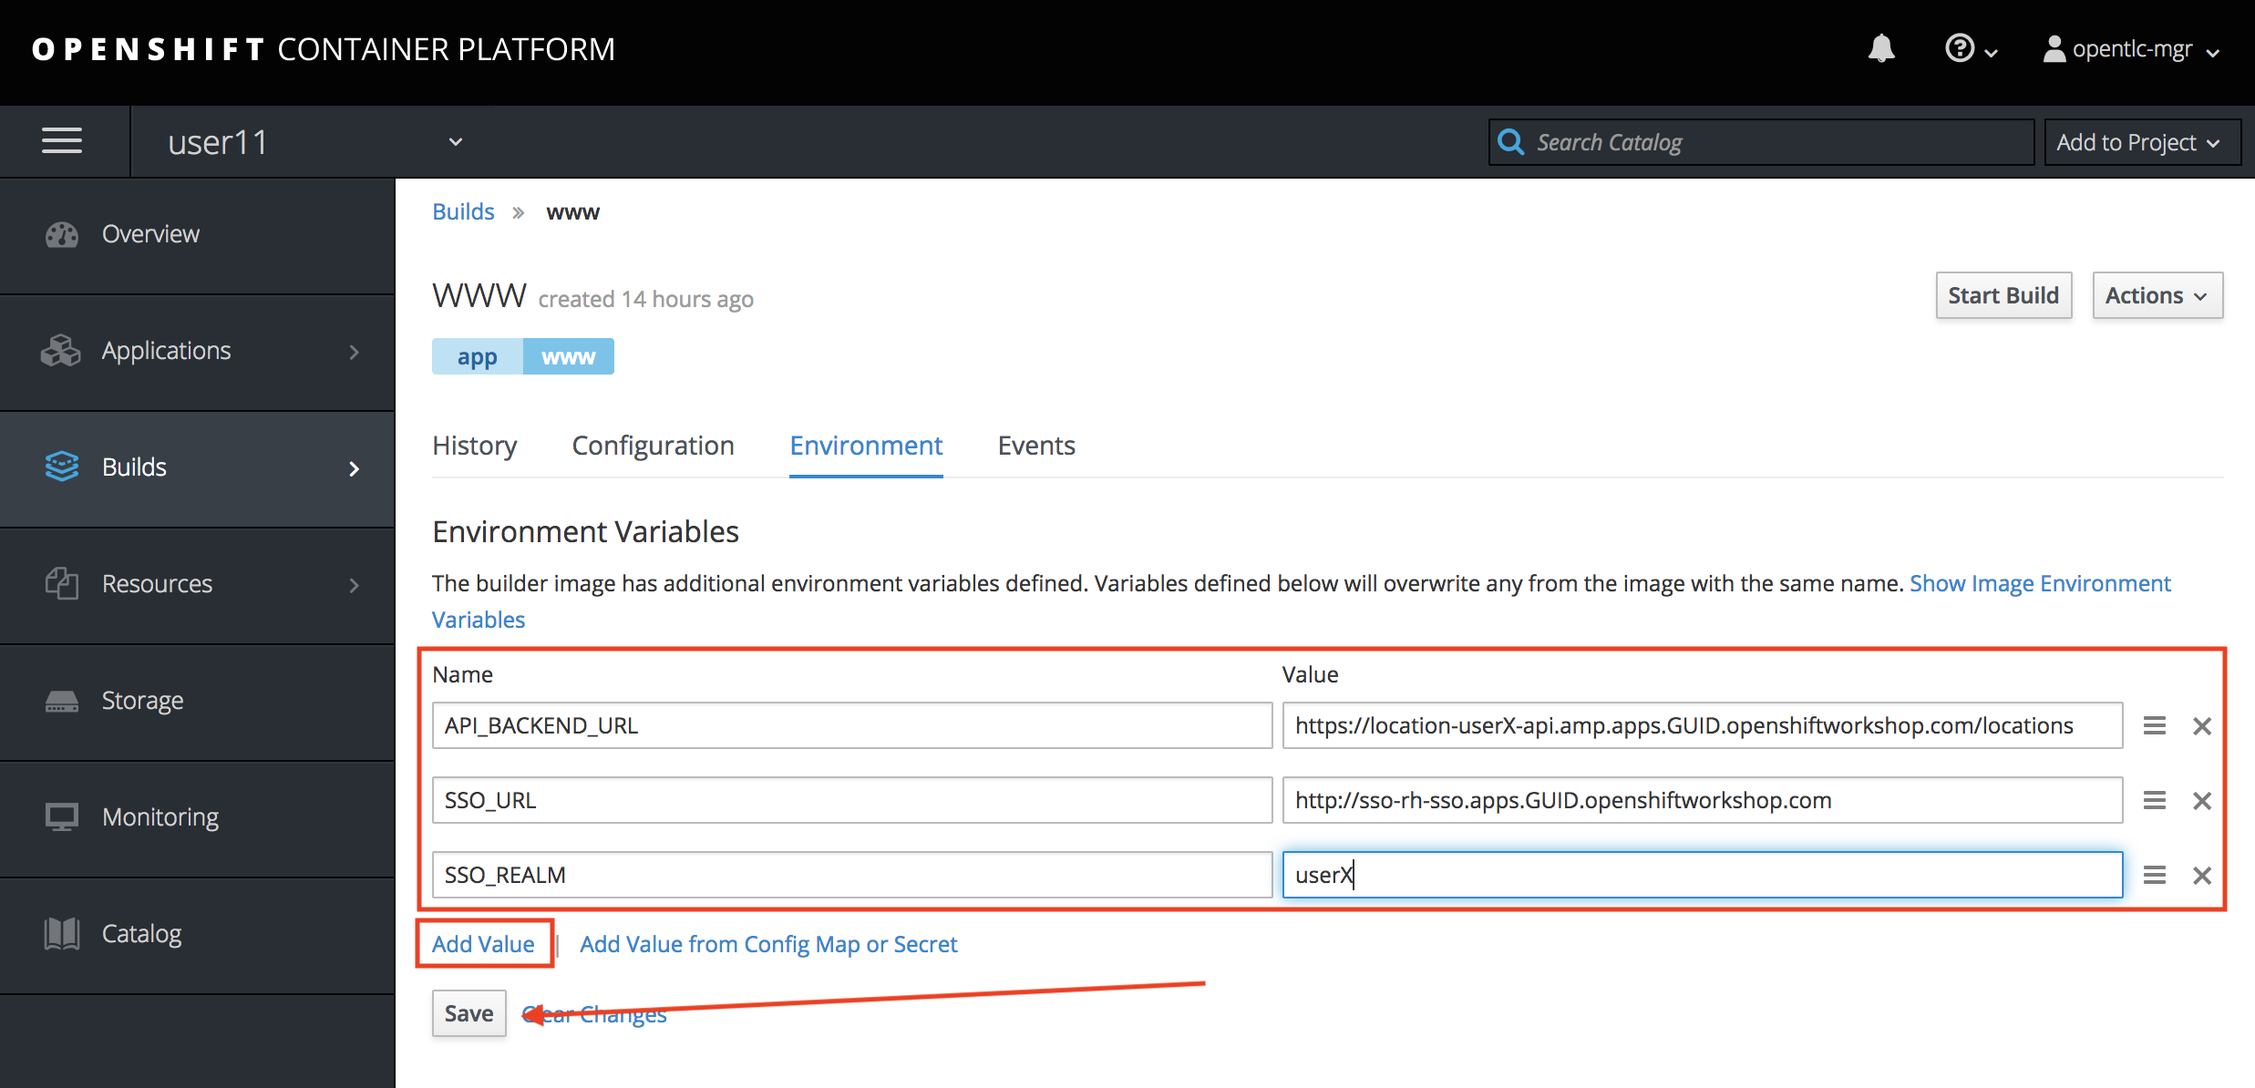
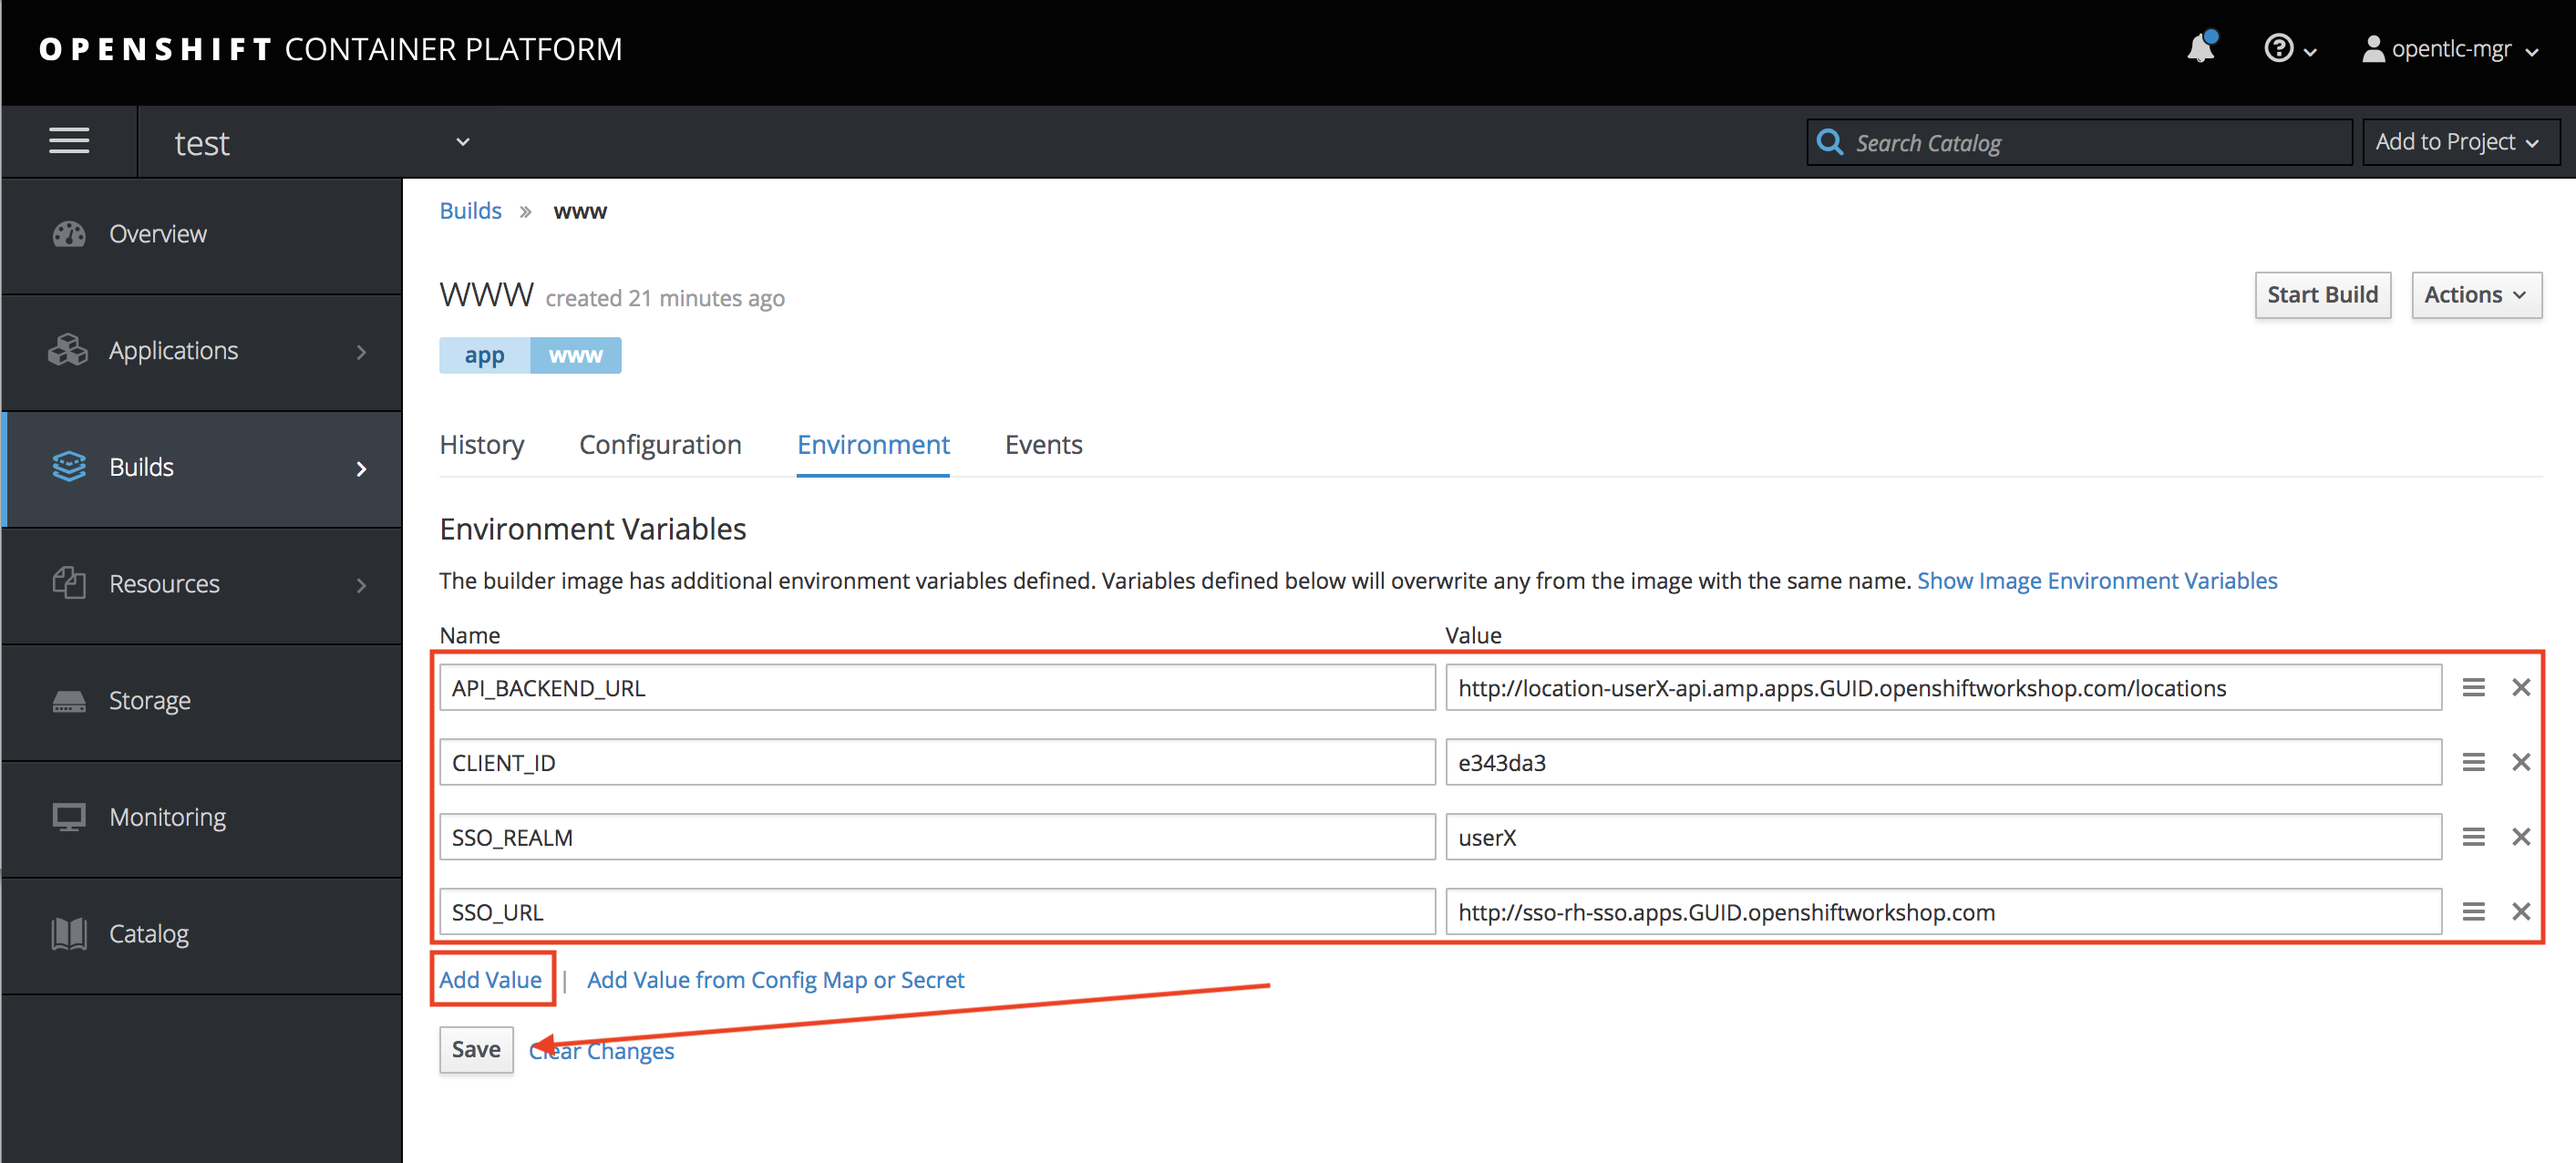
externalized CLIENT_ID instructions

diff --git a/docs/labs/lab06/README.md b/docs/labs/lab06/README.md
@@ -271,8 +271,6 @@ In this step, we will edit the code provided by development to add keycloak. Key
     document.getElementById('loginUrl').href = loginUrl;
     ```
 
-    *Remember to replace CLIENT_ID with the one you got in the [API Security Lab](../lab04/#step-4-create-a-test-app), it should look like `clientId: 'e343da3'`*.
-
 1. Continue scrolling down until you find the next markers:
 
     ```bash
@@ -381,7 +379,9 @@ OpenShift let you automatically redeploy your changes when you setup a Continuou
 
 1. In the build configuration page, change to the **Environment** tab. 
 
-1. **Replace** the unprotected endpoint URL with the new value of your 3scale-protected Location Service API URL. Also add this new two environment variables **SSO_URL** and **SSO_REALM**.
+1. **Replace** the unprotected endpoint URL with the new value of your 3scale-protected Location Service API URL. Also add this new three environment variables **SSO\_URL**, **SSO\_REALM** and **CLIENT\_ID**.
+
+    _Click **Add Value** to add additional rows_.
 
     * Name: **API\_BACKEND\_URL**
     * Value: **https://location-userX-api.amp.apps.GUID.openshiftworkshop.com/locations**
@@ -389,10 +389,10 @@ OpenShift let you automatically redeploy your changes when you setup a Continuou
     * Value: **http://sso-rh-sso.apps.GUID.openshiftworkshop.com**
     * Name: **SSO\_REALM**
     * Value: **userX**
+    * Name: **CLIENT\_ID**
+    * Value: **REPLACE\_ME**
 
-    _Click **Add Value** to add additional rows_.
-
-    *Remember to replace the GUID with your [environment](#environment) value and your user number*.
+    *Replace REPLACE\_ME with the Client ID you got in the [API Security Lab](../lab04/#step-4-create-a-test-app), it should look like `e343da3`. Remember to replace the GUID with your [environment](#environment) value and your user number*.
 
     ![14-environment](images/deploy-14.png "Replace URL")
 
